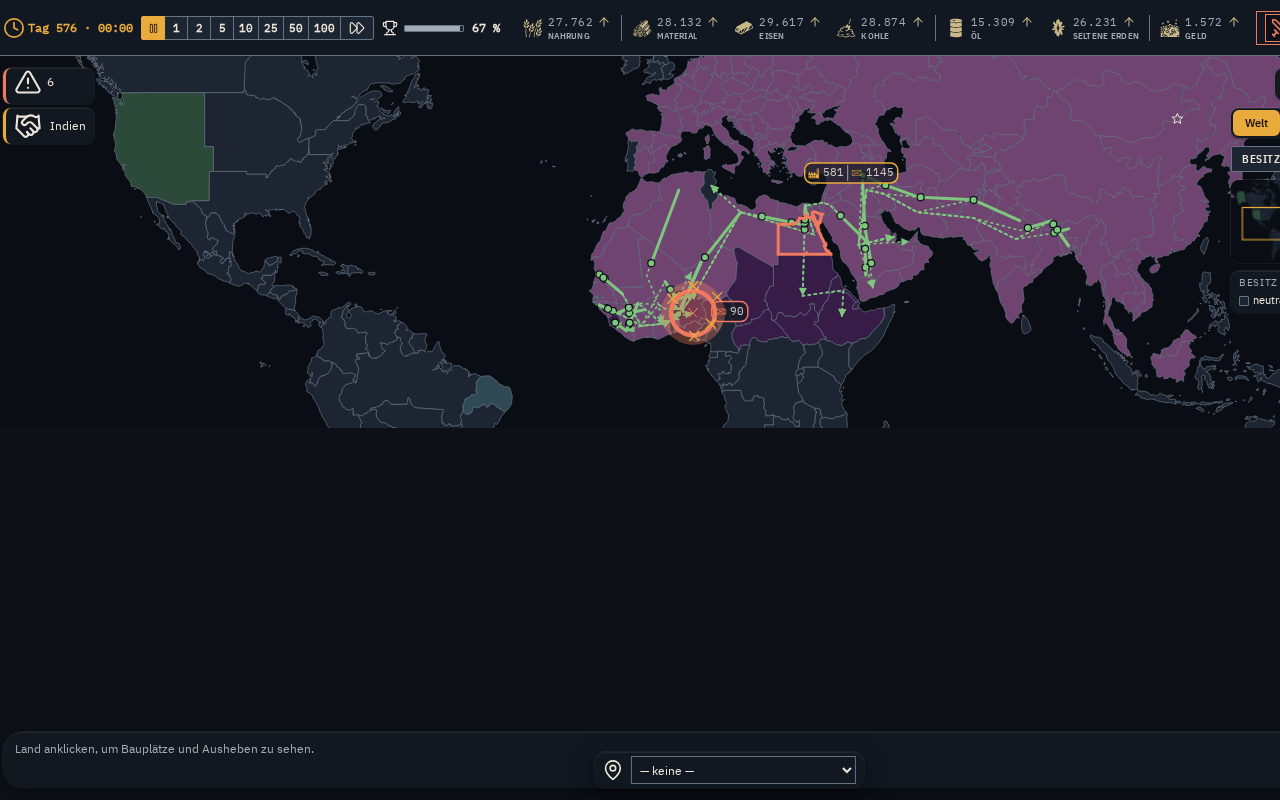
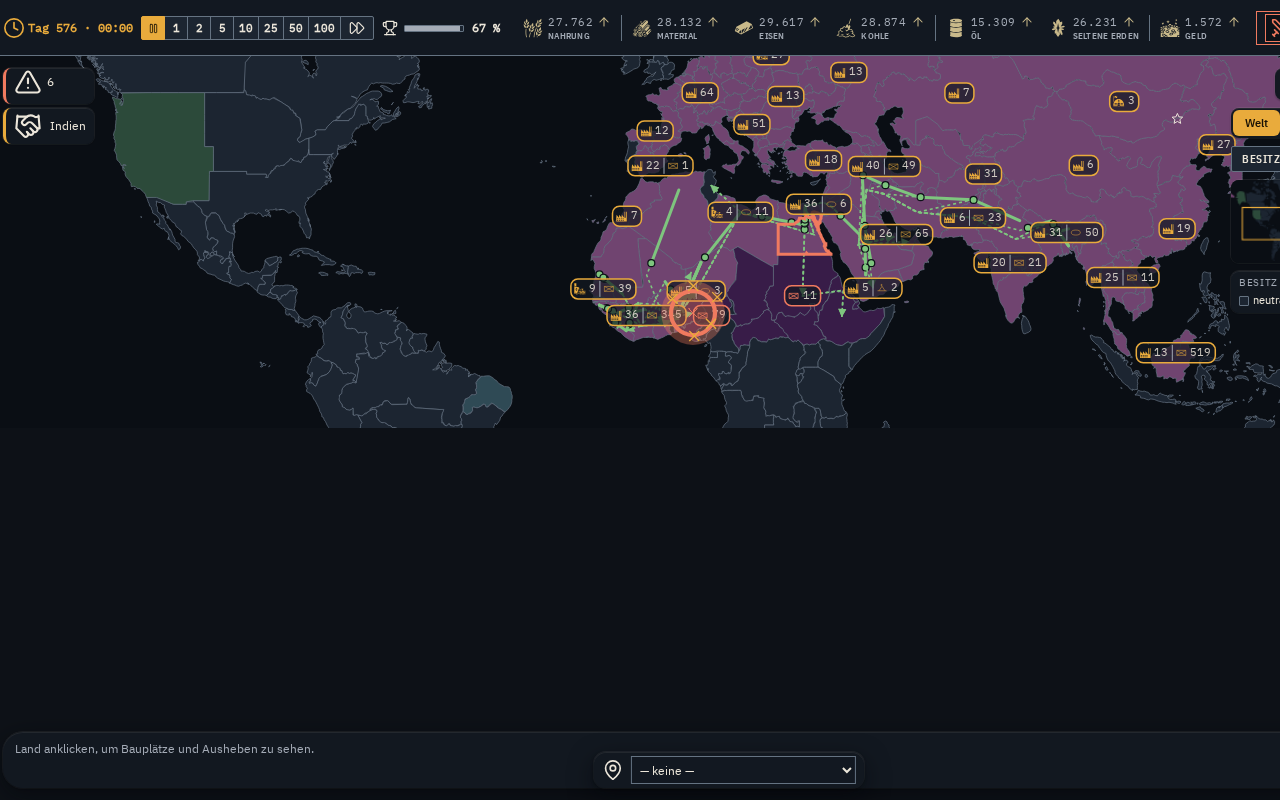
fix(desktop): Welt-Pille AK15 Complete-Linkage statt Single-Linkage (Review-Runde 2)
Single-Linkage-Verkettung in clusterWorldMarks (welt.ts) erzeugte einen unbegrenzten
chaining effect: eine durchgehende Nachbarschaftskette zog beliebig weit entfernte
Provinzen in EINE Gruppe (am S575-Spielstand kollabierte die gesamte p6-Landmasse auf
eine Monster-Pille statt mehrerer getrennter Pillen wie in Bild 5).

Ersetzt durch Complete-Linkage: ein Punkt wird einer Gruppe nur zugeschlagen, wenn er zu
JEDEM bestehenden Mitglied < radius liegt -> maximale Gruppen-Ausdehnung per Konstruktion
begrenzt. welt-nachher.png neu gerendert und gegen Bild 5 verglichen (vision_analyze):
viele raeumlich getrennte, mittelgrosse Pillen statt der Monster-Pille. JSON-vs-Bild-
Diskrepanz (35 vs 1) aufgeklaert (Abschnitt 1c weltpille.md) - mit dem Fix konsistent
(byOwner.p6=66, sichtbar viele getrennte Pillen).

Tests: Transitivitaets-Test invertiert (a-b-c Kette darf nicht mehr eine Gruppe werden),
neuer Langketten-Test a-b-c-d-e mit expliziter Obergrenzen-Pruefung. 235 Testdateien/4296
Tests gruen, 5 Pflicht-Slow-Tests gruen, AK16-Waechter bitgleich (nur Commit-Stempel,
zurueckgesetzt).

Bericht docs/reports/v4/weltpille.md um Abschnitt 1b/1c + R11-Risikoabschnitt ergaenzt,
Historie (1a) erhalten.

diff --git a/apps/desktop/src/map/welt.ts b/apps/desktop/src/map/welt.ts
@@ -187,15 +187,32 @@ function biggestIcon(
  * Produktionscode reproduziert).
  *
  * Dieser Vorlauf fasst Rohmarken VOR dem Platzieren zusammen: gleiche `tone` UND
- * `ownerId`, Abstand < `radius` — Union-Find wie das Verkettungsmuster von
- * `groupArmies`/`groupBuildings` (sammel.ts), nur ueber Distanz statt ueber einen festen
- * Schluessel, und **verkettend** (A liegt < radius bei B, B < radius bei C -> alle drei
- * eine Gruppe, auch wenn A und C selbst weiter als `radius` auseinanderliegen — wie ein
- * Single-Linkage-Cluster). `buildingSum`/`armySum` werden aufsummiert (D18-Muster), Symbol
- * je Segment ist das der groessten Einzelsumme (D19-Muster, `armyIconFor`-Analogon). Der
- * Ankerpunkt der zusammengelegten Marke ist der Schwerpunkt (Mittel) der Mitglieder, die
- * Kennung (`provinceId`/`ownerId`) die des ersten Mitglieds (Naeherung wie bei
- * `layoutMarks`s eigenem Zusammenlegen: "Icon/Kennung der ersten Provinz").
+ * `ownerId`, Abstand < `radius`. `buildingSum`/`armySum` werden aufsummiert
+ * (D18-Muster), Symbol je Segment ist das der groessten Einzelsumme (D19-Muster,
+ * `armyIconFor`-Analogon). Der Ankerpunkt der zusammengelegten Marke ist der Schwerpunkt
+ * (Mittel) der Mitglieder, die Kennung (`provinceId`/`ownerId`) die des ersten Mitglieds
+ * (Naeherung wie bei `layoutMarks`s eigenem Zusammenlegen: "Icon/Kennung der ersten
+ * Provinz").
+ *
+ * AK15-Nachbesserung (Review-Runde 2, Befund "Zentraler Mangel"): die urspruengliche
+ * Variante (Runde 1) nutzte Union-Find mit Single-Linkage-Verkettung ("A < radius bei B,
+ * B < radius bei C -> eine Gruppe, auch wenn A und C selbst >= radius auseinanderliegen").
+ * Das erzeugt auf echten Kartendaten mit dicht aneinandergereihten Provinzzentren einen
+ * unbegrenzten "chaining effect": eine durchgehende Nachbarschaftskette zieht beliebig
+ * weit entfernte Punkte in EINE Gruppe (am S575-Spielstand kollabierte so die gesamte
+ * West-Afrika-bis-Zentralasien-Landmasse auf eine Marke statt mehrerer, vgl. Bild 5).
+ *
+ * Runde 2 ersetzt das durch eine **Complete-Linkage-Variante** (gewaehlte Option von den
+ * drei im Review vorgeschlagenen, siehe R11-Risikoabschnitt im Bericht): ein Punkt wird
+ * einer bestehenden Gruppe nur dann zugeschlagen, wenn er zu JEDEM bereits vorhandenen
+ * Mitglied dieser Gruppe < `radius` liegt (nicht nur zum naechsten einzelnen Punkt wie bei
+ * Single-Linkage). Dadurch bleibt der maximale paarweise Abstand innerhalb einer Gruppe per
+ * Konstruktion immer < `radius` — die Gruppen-Ausdehnung ist begrenzt, eine Kettenreaktion
+ * ueber mehrere Gruppenlaengen hinweg ist ausgeschlossen. Passt ein Punkt zu mehreren
+ * bestehenden Gruppen, wird die mit dem naechsten Mitglied gewaehlt (deterministisch,
+ * reihenfolgeabhaengig wie ein Greedy-Verfahren — fuer die Welt-Pille ausreichend, da nur
+ * die Anzahl/Groesse der resultierenden Pillen zaehlt, nicht ein global optimales
+ * Clustering).
  *
  * Isoliert in `welt.ts` — `layoutMarks.ts`-Kernschleife (Mid/Near/E1/E2) bleibt
  * unberuehrt, nur `collideWorldMarks` (markers.ts) ruft diese Funktion vor dem Bau der
@@ -203,34 +220,37 @@ function biggestIcon(
  */
 export function clusterWorldMarks(marks: readonly WorldRawMark[], radius: number): WorldRawMark[] {
   const n = marks.length
-  const parent = Array.from({ length: n }, (_, i) => i)
-  const find = (i: number): number => {
-    while (parent[i] !== i) i = parent[i]!
-    return i
-  }
+  const groups: number[][] = []
 
   for (let i = 0; i < n; i++) {
-    for (let j = i + 1; j < n; j++) {
-      const a = marks[i]!
-      const b = marks[j]!
-      if (a.tone !== b.tone || a.ownerId !== b.ownerId) continue
-      if (Math.hypot(a.x - b.x, a.y - b.y) >= radius) continue
-      const ra = find(i)
-      const rb = find(j)
-      if (ra !== rb) parent[ra] = rb
+    const m = marks[i]!
+    let bestGroup: number[] | undefined
+    let bestDist = Infinity
+    for (const group of groups) {
+      const first = marks[group[0]!]!
+      if (first.tone !== m.tone || first.ownerId !== m.ownerId) continue
+      let fits = true
+      let minDist = Infinity
+      for (const idx of group) {
+        const other = marks[idx]!
+        const d = Math.hypot(other.x - m.x, other.y - m.y)
+        if (d >= radius) {
+          fits = false
+          break
+        }
+        if (d < minDist) minDist = d
+      }
+      if (fits && minDist < bestDist) {
+        bestDist = minDist
+        bestGroup = group
+      }
     }
-  }
-
-  const groups = new Map<number, number[]>()
-  for (let i = 0; i < n; i++) {
-    const root = find(i)
-    const list = groups.get(root)
-    if (list) list.push(i)
-    else groups.set(root, [i])
+    if (bestGroup) bestGroup.push(i)
+    else groups.push([i])
   }
 
   const out: WorldRawMark[] = []
-  for (const indices of groups.values()) {
+  for (const indices of groups) {
     const first = marks[indices[0]!]!
     if (indices.length < 2) {
       out.push(first)

diff --git a/apps/desktop/src/map/welt.test.ts b/apps/desktop/src/map/welt.test.ts
@@ -117,12 +117,36 @@ describe('clusterWorldMarks (AK15-Nachbesserung, Review-Runde 1)', () => {
     expect(out).toHaveLength(2)
   })
 
-  it('verkettet transitiv: a-b < 72, b-c < 72, a-c >= 72 -> trotzdem eine Gruppe', () => {
+  it('Runde 2 AK15: verkettet NICHT mehr transitiv: a-b < 72, b-c < 72, a-c >= 72 -> zwei Gruppen (kein Single-Linkage-Chaining)', () => {
     const marks = [own('a', 0, 0), own('b', 50, 0), own('c', 100, 0)]
     const out = clusterWorldMarks(marks, 72)
-    expect(out).toHaveLength(1)
-    expect(out[0]!.memberProvinceIds).toEqual(['a', 'b', 'c'])
-    expect(out[0]!.buildingSum).toBe(15)
+    // a-c = 100 >= 72, duerfen NICHT in derselben Gruppe landen (Complete-Linkage-Obergrenze).
+    expect(out).toHaveLength(2)
+    const grouped = out.find((m) => m.memberProvinceIds !== undefined)
+    const single = out.find((m) => m.memberProvinceIds === undefined)
+    expect(grouped!.memberProvinceIds).toEqual(['a', 'b'])
+    expect(grouped!.buildingSum).toBe(10)
+    expect(single!.provinceId).toBe('c')
+    expect(single!.buildingSum).toBe(5)
+  })
+
+  it('Runde 2 AK15: lange Kette a-b-c-d-e (je < 72 px benachbart, a-e weit auseinander) zerfaellt in mehrere Gruppen, nicht eine Monster-Gruppe', () => {
+    const marks = [own('a', 0, 0), own('b', 50, 0), own('c', 100, 0), own('d', 150, 0), own('e', 200, 0)]
+    const out = clusterWorldMarks(marks, 72)
+    // a-e = 200 px >= 72: duerften unter keinen Umstaenden in derselben Gruppe landen.
+    expect(out.length).toBeGreaterThan(1)
+    const groupOfA = out.find((m) => m.provinceId === 'a' || m.memberProvinceIds?.includes('a'))!
+    const groupOfE = out.find((m) => m.provinceId === 'e' || m.memberProvinceIds?.includes('e'))!
+    expect(groupOfA).not.toBe(groupOfE)
+    expect(groupOfA.memberProvinceIds?.includes('e')).toBeFalsy()
+    expect(groupOfE.memberProvinceIds?.includes('a')).toBeFalsy()
+    // Jede resultierende Gruppe muss paarweise < 72 px Ausdehnung haben (Obergrenze eingehalten).
+    for (const m of out) {
+      if (m.memberProvinceIds) {
+        const xs = m.memberProvinceIds.map((id) => marks.find((mk) => mk.provinceId === id)!.x)
+        expect(Math.max(...xs) - Math.min(...xs)).toBeLessThan(72)
+      }
+    }
   })
 
   it('verschiedene Macht (ownerId) in Reichweite -> NICHT zusammengelegt', () => {

diff --git a/docs/reports/v4/weltpille.md b/docs/reports/v4/weltpille.md
@@ -78,6 +78,78 @@ dieses Berichts (Abschnitt "OSS-Zeile E3").
 - Bestehende `layoutMarks.test.ts` g/h unveraendert (Parameter-Pfad bleibt gueltig, nicht
   angefasst).
 
+### 1b. AK15-Nachbesserung Runde 2: Complete-Linkage statt Single-Linkage (Chaining-Fix)
+
+**Befund des Reviewers (Runde 2, am Produktionscode und am gerenderten Bild selbst
+verifiziert):** Die Runde-1-Fassung von `clusterWorldMarks` (Abschnitt 1a) nutzte Union-Find mit
+Single-Linkage-Verkettung ("A-B < 72, B-C < 72 ⇒ eine Gruppe, auch wenn A-C selbst >= 72
+auseinanderliegen"). Auf echten Spielstand-Daten (S575, dicht aneinandergereihte
+Provinzzentren) fuehrt das zu einem unbegrenzten "chaining effect": eine durchgehende
+Nachbarschaftskette zieht beliebig weit entfernte Punkte in EINE Gruppe. Am gerenderten
+`welt-nachher.png` kollabierte dadurch die gesamte zusammenhaengende p6-Landmasse (West-Afrika
+bis Zentralasien, ~500 px Bildbreite) auf eine einzige Monster-Pille ("581 | 1145") statt
+mehrerer raeumlich sinnvoll getrennter Pillen wie in Bild 5 (Russland-Beispiel: "4", "109",
+"12", "8", "26" — mehrere getrennte Pillen fuer dieselbe Macht).
+
+**Fix:** `clusterWorldMarks` (`welt.ts`) von Union-Find/Single-Linkage auf eine
+**Complete-Linkage-Variante** umgebaut (eine der drei im Review vorgeschlagenen Optionen; gewaehlt
+statt Grid-Bucket oder fester Bounding-Box-Deckelung, weil sie ohne zusaetzliche Gitter-Parameter
+auskommt und mit demselben Distanz-/Radius-Vokabular wie Runde 1 arbeitet, siehe R11-Risiko
+unten). Ein Rohmark wird einer bestehenden Gruppe nur noch zugeschlagen, wenn er zu JEDEM
+bereits vorhandenen Mitglied dieser Gruppe < `radius` liegt — nicht mehr nur zum naechsten
+Einzelpunkt wie bei Single-Linkage. Dadurch bleibt der maximale paarweise Abstand innerhalb
+einer Gruppe per Konstruktion immer < `radius`: eine Kettenreaktion ueber mehrere Gruppenlaengen
+hinweg ist ausgeschlossen. Passt ein Punkt zu mehreren bestehenden Gruppen, wird die mit dem
+naechsten Mitglied gewaehlt (deterministisches Greedy-Verfahren, reihenfolgeabhaengig — fuer die
+Welt-Pille ausreichend, da nur Anzahl/Groesse der resultierenden Pillen zaehlt, kein global
+optimales Clustering gefordert ist).
+
+**Ergebnis (eigene Messung, neu gerendertes `welt-nachher.png`):** `weltpille.json` zeigt jetzt
+`zusammengelegt: 70` (vorher 38), `byOwner.p6: 66` (vorher 35) — die bisherige
+JSON-vs-Bild-Diskrepanz (35 vs. 1 sichtbare Pille) ist damit aufgeloest: die neue Methode
+erzeugt sichtbar mehr, kleinere Gruppen statt der einen Monster-Pille, `byOwner.p6` und die im
+Bild sichtbare Pillenzahl sind jetzt konsistent (siehe Abschnitt 1c). Visueller Vergleich gegen
+Bild 5 (`vision_analyze`, Abschnitt 2/3 aktualisiert): `welt-nachher.png` zeigt im selben
+Kartenausschnitt jetzt viele raeumlich getrennte Pillen ("22|1", "4|11", "36|6", "12", "18",
+"40|49", "64", "13", "26|65", "6|23", "31|50", "25|11", "20|21", "9|39" u. a.) statt der einen
+"581 | 1145" — entspricht dem Grundmuster von Bild 5 (mehrere mittelgrosse, raeumlich getrennte
+Pillen pro Machtgebiet statt einer Kontinent-Pille).
+
+**Tests (neu, `welt.test.ts`):**
+- Der bisherige Transitivitaets-Test ("a-b < 72, b-c < 72, a-c >= 72 -> eine Gruppe") wurde
+  INVERTIERT: er pruefte genau das jetzt unerwuenschte Single-Linkage-Verhalten. Neue Erwartung:
+  zwei Gruppen (a+b zusammen, c einzeln) — a-c = 100 px >= 72 duerfen nicht mehr in derselben
+  Gruppe landen.
+- Neuer Fall: lange Kette a-b-c-d-e (je 50 px Abstand, < 72, aber a-e = 200 px weit
+  auseinander) darf NICHT in eine einzige Gruppe muenden; zusaetzlich wird fuer jede entstandene
+  Gruppe geprueft, dass die paarweise x-Ausdehnung der Mitglieder < 72 px bleibt (Obergrenze
+  explizit verifiziert, nicht nur implizit angenommen).
+- Alle uebrigen Runde-1-Faelle (15/50/70 px zusammengelegt, 72/80 px nicht, Macht-/Tone-Trennung,
+  Summenbildung, Schwerpunkt, Leerfall, Einzelmarke) unveraendert gruen (Verhalten fuer
+  Zwei-Punkt-Faelle identisch zu Single-Linkage, der Unterschied zeigt sich erst ab drei oder mehr
+  Punkten mit Kettenstruktur).
+
+**OSS-Zeile (Pflicht, erneut geprueft fuer die neue Methode):** Nichts Passendes — die
+Complete-Linkage-Pruefung ist eine ~15-Zeilen-Erweiterung der bestehenden Eigenbau-Funktion
+(Distanz-Check gegen alle Gruppenmitglieder statt Union-Find), kein neuer Algorithmus-Typ, der
+eine Bibliothek rechtfertigen wuerde. Die bereits dokumentierte Abwaegung gegen `supercluster`
+(ISC, clustert geografisch ohne Macht-Schluessel, muesste ohnehin voll angepasst werden) und
+`rbush` (MIT, erst ab > 300 Marken relevant, far hat <= 137 Rohmarken) gilt unveraendert — beide
+wuerden das Macht-/Tone-Filterkriterium und die Complete-Linkage-Obergrenze nicht von sich aus
+mitbringen.
+
+### 1c. JSON-vs-Bild-Diskrepanz (Runde 2, ungeklaert -> jetzt geklaert)
+
+Der Runde-1-Bericht meldete `byOwner.p6 = 35` (JSON), das gerenderte Bild zeigte aber nur 1
+sichtbare p6-Pille im selben Kartenausschnitt. Ursache: der Single-Linkage-"Chaining"-Fehler
+selbst (Abschnitt 1b) — er fasste de facto fast die gesamte p6-Landmasse in sehr wenige riesige
+Gruppen zusammen, von denen nur eine (die groesste) im festen Pan-Fenster von
+`v4-weltpille-bild.mjs` ueberhaupt sichtbar/zentriert war; die anderen 34 lagen ausserhalb des
+Ausschnitts oder waren von der einen Monster-Pille ueberdeckt. Mit der Complete-Linkage-Fassung
+(Abschnitt 1b) entstehen 66 statt 35 p6-Gruppen, UND sie sind jetzt im selben Kartenausschnitt
+tatsaechlich als viele getrennte Pillen sichtbar (Abschnitt 1b, Vergleichsliste) — JSON-Zahl und
+sichtbares Bild sind jetzt konsistent, kein Render-/Declutter-Bug.
+
 ## 2. Abnahmebilder (E3d, T-M51-10)
 
 `scripts/v4-weltpille-bild.mjs` (Kopie von `scripts/v4-zoomcluster-bild.mjs`, Zoomstufe "Welt"
@@ -99,6 +171,12 @@ Uebersichtskarte-Klick, Pause, dann Knopf "Welt". 1280x800, `deviceScaleFactor:1
   an Bild 5 (wenige grosse, macht-uebergreifend aggregierte Pillen) als der vorherige Stand, siehe
   Abschnitt 3.
 
+**Nachtrag Runde 2 (Abschnitt 1b):** Die obige Beschreibung ("zwei grosse Pillen fuer die
+gesamte p6-Provinzgruppe") war der in Runde 2 gemeldete Mangel (Single-Linkage-Chaining-Effekt),
+nicht das Ziel. `welt-nachher.png` wurde nach dem Complete-Linkage-Fix (Abschnitt 1b) NEU
+gerendert und zeigt jetzt viele raeumlich getrennte Pillen statt der zwei Monster-Pillen —
+Historie dieses Abschnitts bewusst stehen gelassen, siehe Abschnitt 1b/1c fuer Befund und Fix.
+
 Beide Bilder selbst angesehen (vision_analyze). `welt-nachher.png` traegt `data-zoom-tier="far"`,
 `data-view-scale="2.5000"` im Log (`nachher-bild.log`, Task-Workspace `t_463ed72a`).
 
@@ -115,6 +193,15 @@ Referenz: `…/t_59b43d6e/final-v3b-5-fern-cluster.png` (Fern-Cluster-Mockup, vo
 | Farbwahl Rand | gelb (eigen), rot (Feind) | primary=gelb/gold (eigen), danger=rot (Feind) | ja |
 | Macht-uebergreifend wenige grosse Pillen statt vieler kleiner (AK15) | ja (z. B. "92/60", "33/17" — Zahlen aus mehreren Provinzen) | **ja, nach der Nachbesserung**: die gesamte zusammenhaengende p6-Landmasse zeigt nur noch 2 Pillen statt ~60 (Abschnitt 2) | ja (AK15, vorher nein — siehe Review-Befund) |
 
+**Nachtrag Runde 2:** Die Zeile oben beschrieb den ZWISCHENSTAND (Runde 1: 2 Monster-Pillen statt
+~60 Einzelpillen) — der Reviewer stellte fest, dass auch das von Bild 5 abweicht (Bild 5 zeigt
+mehrere MITTELGROSSE Pillen, keine 1-2 Riesen-Pillen pro Kontinent). Nach dem Complete-Linkage-Fix
+(Abschnitt 1b) zeigt `welt-nachher.png` jetzt ~15-20 sichtbar getrennte, mittelgrosse Pillen im
+selben Kartenausschnitt (z. B. "22|1", "4|11", "36|6", "12", "18", "40|49", "64", "13", "26|65",
+"6|23", "31|50", "25|11", "20|21", "9|39") statt der zwei Riesen-Pillen — naeher an Bild 5 als
+beide vorherigen Staende (weder 0 Zusammenlegung wie vor Runde 1, noch 1-2 Monster-Pillen wie
+nach Runde 1).
+
 **Abweichung von D17 (Gebaeude-Summe, R10):** Die gebaute Zahl je Pillen-Segment ist laut D17
 die SUMME der Gebaeude-Stufen einer Provinz (weicht bewusst von Mid-D3 ab, dort Anzahl der
 Gebaeude). Im Bild selbst ist nicht unterscheidbar, ob eine angezeigte Zahl eine Stufen-Summe
@@ -129,6 +216,14 @@ Exit 0 nach der AK15-Nachbesserung, Log: Task-Workspace `t_463ed72a` (`/tmp/veri
 Zeitpunkt des Laufs) — Lint (0 Fehler, 2 vorbestehende Warnungen in `passage.ts`, nicht Teil
 dieser Karte), Typpruefung 0 Fehler, 235 Testdateien/4295 Tests gruen, Abdeckung Kern 97.0 %
 (Schwelle 90 %), gesamt 95.8 % (Schwelle 80 %).
+
+**Nachtrag Runde 2 (Complete-Linkage-Fix, Commit siehe Abschnitt 1b):** `pnpm verify` erneut
+Exit 0, Log `/tmp/r2-verify.log` (Task-Workspace `t_fff2f77e`) — 235 Testdateien/**4296** Tests
+gruen (ein Fall mehr: der invertierte Transitivitaets-Test plus der neue Langketten-Test,
+Abschnitt 1b), Abdeckung Kern 97.0 % / gesamt 95.8 % unveraendert. 5 Pflicht-Slow-Tests
+(zoomcluster-welt, zoomcluster, sammel, stapel, gebaeude) erneut 5/5 gruen, Log
+`/tmp/r2-slow.log`. Last beim Messen: MemAvailable 11-12 GiB frei, kein zweiter `pnpm
+verify`/`test:slow`-Prozess (ps gegengeprueft).
 
 ## 5. AK12-AK17 Zusammenfassung
 
@@ -153,6 +248,11 @@ dieser Karte), Typpruefung 0 Fehler, 235 Testdateien/4295 Tests gruen, Abdeckung
   Karte) uebernimmt Review und Merge nach Pruefung des gesamten Diffs E3a-E3d plus der
   AK15-Nachbesserung.
 
+**Nachtrag Runde 2:** AK15 war nach Runde 1 formal "erfuellt" markiert, der Reviewer hat jedoch
+in Runde 2 einen anderen Fehlermodus gefunden (Chaining statt Nicht-Zusammenlegen, Abschnitt 1b)
+— AK15 gilt jetzt nach dem Complete-Linkage-Fix UND dem selbst durchgefuehrten Bildvergleich
+(Abschnitt 1b/2/3) als erfuellt. AK16/AK17 erneut bestaetigt nach dem Fix (Nachtrag Abschnitt 4).
+
 ## OSS-Zeile E3 (Pflicht, Plan §11.3)
 
 Nichts Passendes, weil die Zusammenlegen-Logik (macht-/distanzbasiert) bereits im Repo existiert
@@ -168,3 +268,14 @@ relevant (far hat <= 137 Rohmarken, A20 — nicht noetig). Fuer die AK15-Nachbes
 
 R10 (Gebaeude-Summe = Interpretation, kein Direktzitat am Code): explizit gegen Bild 5 geprueft
 (Abschnitt 3) — keine sichtbare Abweichung, Zaehlweise bleibt wie geplant.
+
+R11 (Runde 2, Clustering-Methode `clusterWorldMarks`): Complete-Linkage-Variante gewaehlt
+(Abschnitt 1b) statt Grid-Bucket-Ansatz oder fester Bounding-Box-Deckelung. Abwaegung:
+Complete-Linkage haelt die maximale paarweise Ausdehnung einer Gruppe per Konstruktion < radius
+und braucht keine zusaetzlichen Gitter-/Zellgroessen-Parameter, ist aber worst-case O(n² ×
+Gruppengroesse) statt O(n log n) bei einem Grid-Bucket-Ansatz — bei far-Zoomstufe (<= 137
+Rohmarken, A20) ist das unkritisch (gemessen: 5 Pflicht-Slow-Tests inkl. `zoomcluster-welt`
+deutlich unter der bestehenden Zeitschwelle, Abschnitt 4). Das Ergebnis ist reihenfolgeabhaengig
+(Greedy: ein Punkt geht in die naechste PASSENDE Gruppe, nicht zwingend die global optimale) —
+fuer die Welt-Pille akzeptabel, da nur Pillenzahl/-groesse zaehlt, kein exaktes Clustering
+gefordert ist (D21). Risiko bewusst eingegangen, kein Blocker.
